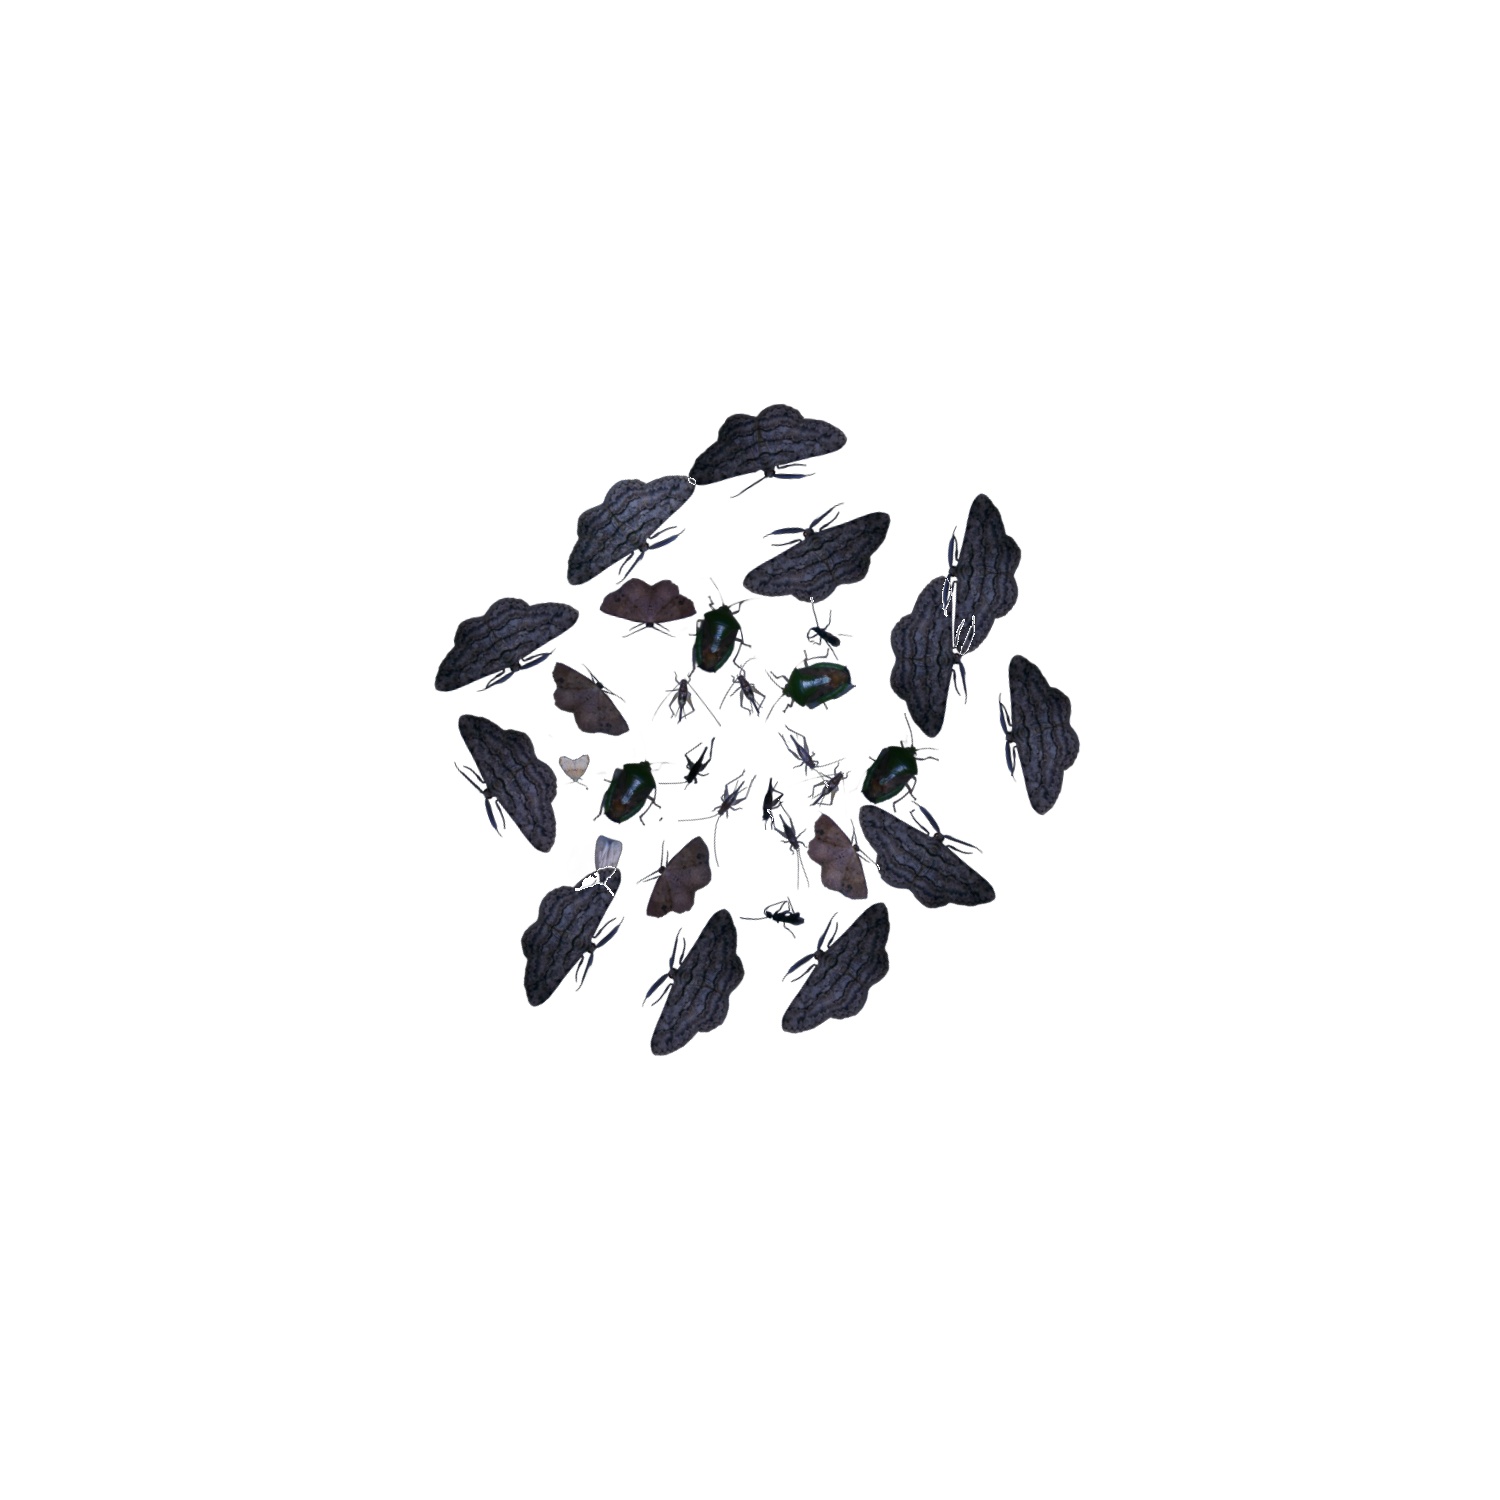
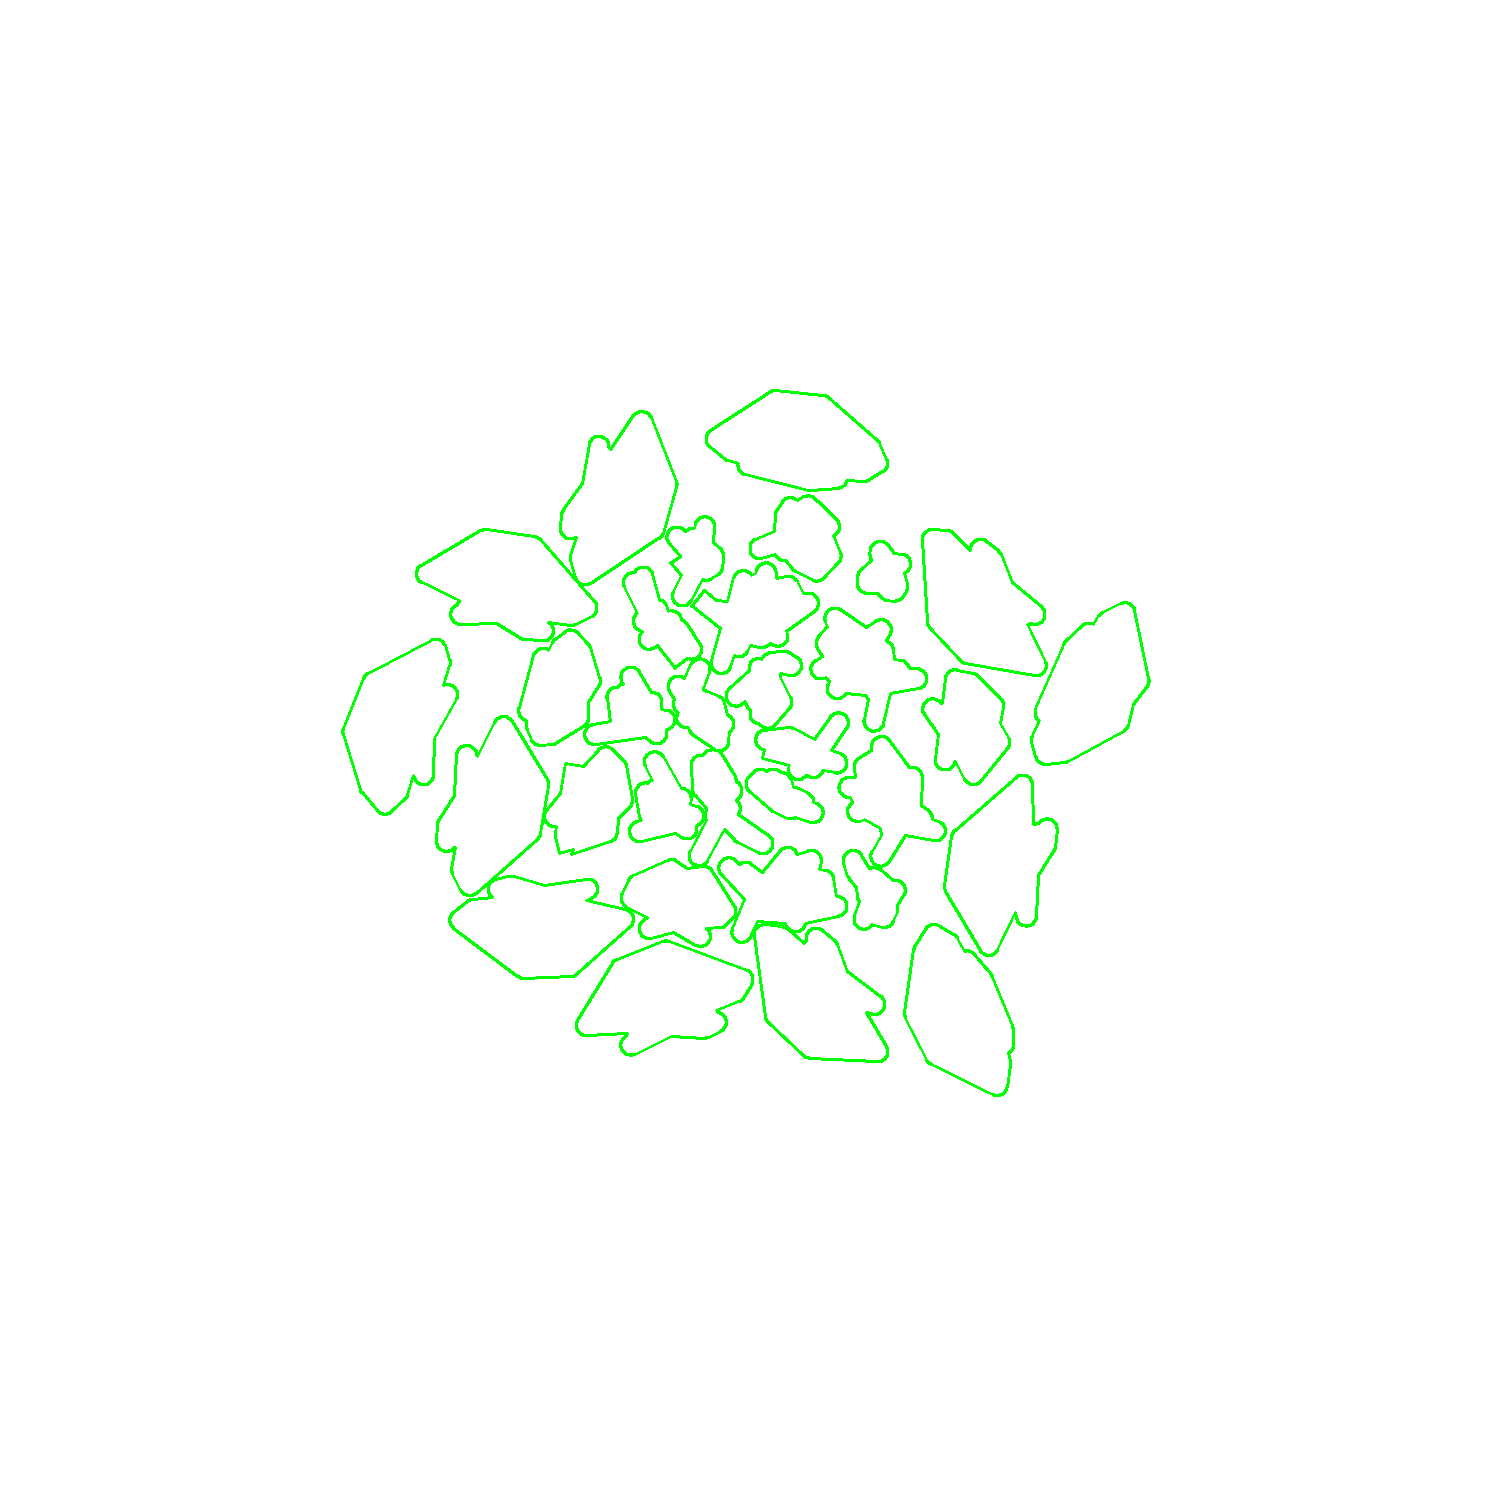
can add padding now

Changed region(s): [[0.2453, 0.2453, 0.736, 0.7053], [0.644, 0.7053, 0.6747, 0.736]]

diff --git a/AI/visualization_scripts/shape_packing.py b/AI/visualization_scripts/shape_packing.py
@@ -10,12 +10,14 @@ import matplotlib.pyplot as plt
 # ----------------------------
 # CONFIG
 # ----------------------------
-folder = r"D:\x-anylabeling-matting\onlybig\test\*.png"  # default folder
-scale_factor = 0.2       # set to 1.0 for no scaling
-animate = True           # set False to skip animation
-bg_color = None          # e.g., (255,255,255) for white, None = transparent
-random_rotate = True     # True to rotate each shape randomly
-max_rotation = 360       # max rotation angle in degrees
+folder = r"D:\x-anylabeling-matting\onlybig\test\*.png"
+scale_factor = 0.2        # scale factor for all shapes
+animate = True            # step-by-step animation
+bg_color = None           # None = transparent, or (R,G,B)
+random_rotate = True      # rotate shapes randomly
+max_rotation = 360        # max random rotation (degrees)
+debug_view = True        # if True, show outlines instead of images
+padding = 10               # extra padding around each shape (in pixels)
 
 
 # ----------------------------
@@ -44,7 +46,7 @@ def get_shape(path, scale_factor=1.0):
     # Polygon in image coords
     poly = Polygon(approx.reshape(-1, 2))
 
-    # Compute centroid (to use as anchor point)
+    # Compute centroid
     cx, cy = poly.centroid.coords[0]
 
     return {
@@ -59,31 +61,44 @@ def get_shape(path, scale_factor=1.0):
 # ----------------------------
 # 2. Packing algorithm
 # ----------------------------
-def pack_shapes(shapes, spacing=5, animate=False, random_rotate=False, max_rotation=360):
+def pack_shapes(shapes, spacing=5, animate=False,
+                random_rotate=False, max_rotation=360,
+                padding=0):
     placed = []
     center = (0, 0)
 
-    # Prepare matplotlib live plot if animating
     if animate:
         plt.ion()
         fig, ax = plt.subplots()
         ax.set_aspect("equal")
         ax.axis("off")
 
-    for i, shape in enumerate(shapes):
-        # Apply random rotation if enabled
-        angle_deg = 0
+    for shape in shapes:
+        # Random rotation
         rotated_img = shape["img"]
         rotated_poly = shape["poly"]
 
         if random_rotate:
             angle_deg = random.uniform(0, max_rotation)
-            # Rotate image around its center
             h, w = shape["h"], shape["w"]
+
+            # Rotate image
             M = cv2.getRotationMatrix2D((w/2, h/2), angle_deg, 1.0)
-            rotated_img = cv2.warpAffine(rotated_img, M, (w, h), flags=cv2.INTER_LINEAR, borderMode=cv2.BORDER_CONSTANT, borderValue=(0,0,0,0))
-            # Rotate polygon around anchor
+            rotated_img = cv2.warpAffine(
+                rotated_img, M, (w, h),
+                flags=cv2.INTER_LINEAR,
+                borderMode=cv2.BORDER_CONSTANT,
+                borderValue=(0, 0, 0, 0)
+            )
+
+            # Rotate polygon
             rotated_poly = affinity.rotate(rotated_poly, angle_deg, origin=shape["anchor"])
+
+        # Apply padding
+        if padding > 0:
+            padded_poly = rotated_poly.buffer(padding)
+        else:
+            padded_poly = rotated_poly
 
         # Spiral placement
         angle = 0
@@ -96,23 +111,27 @@ def pack_shapes(shapes, spacing=5, animate=False, random_rotate=False, max_rotat
 
             dx = x - shape["anchor"][0]
             dy = y - shape["anchor"][1]
-            moved_poly = affinity.translate(rotated_poly, xoff=dx, yoff=dy)
+            moved_poly = affinity.translate(padded_poly, xoff=dx, yoff=dy)
 
             # Collision check
-            if not any(moved_poly.intersects(
-                        affinity.translate(p["poly"],
-                                           xoff=px - p["anchor"][0],
-                                           yoff=py - p["anchor"][1]).buffer(spacing))
-                       for p, (px, py) in placed):
-                # Save placed shape with rotated image & polygon
+            if not any(
+                moved_poly.intersects(
+                    affinity.translate(
+                        p["poly"],
+                        xoff=px - p["anchor"][0],
+                        yoff=py - p["anchor"][1]
+                    )
+                )
+                for p, (px, py) in placed
+            ):
                 new_shape = shape.copy()
                 new_shape["img"] = rotated_img
-                new_shape["poly"] = rotated_poly
+                new_shape["poly"] = padded_poly  # store padded version
                 placed.append((new_shape, (x, y)))
                 placed_successfully = True
 
                 if animate:
-                    canvas = visualize(placed, bg_color=bg_color)
+                    canvas = visualize(placed, bg_color=bg_color, debug=debug_view)
                     ax.clear()
                     ax.imshow(cv2.cvtColor(canvas, cv2.COLOR_BGRA2RGBA))
                     ax.axis("off")
@@ -131,7 +150,7 @@ def pack_shapes(shapes, spacing=5, animate=False, random_rotate=False, max_rotat
 # ----------------------------
 # 3. Render composite
 # ----------------------------
-def visualize(placed, out_size=(1500, 1500), bg_color=None):
+def visualize(placed, out_size=(1500, 1500), bg_color=None, debug=False):
     if bg_color is None:
         canvas = np.zeros((out_size[1], out_size[0], 4), dtype=np.uint8)
     else:
@@ -142,19 +161,29 @@ def visualize(placed, out_size=(1500, 1500), bg_color=None):
     cx, cy = out_size[0] // 2, out_size[1] // 2
 
     for shape, (x, y) in placed:
-        img = shape["img"]
-        h, w = shape["h"], shape["w"]
+        if debug:
+            moved_poly = affinity.translate(
+                shape["poly"], xoff=x - shape["anchor"][0], yoff=y - shape["anchor"][1]
+            )
+            pts = np.array(moved_poly.exterior.coords, dtype=np.int32)
+            pts[:, 0] += cx
+            pts[:, 1] += cy
+            cv2.polylines(canvas, [pts], isClosed=True,
+                          color=(0, 255, 0, 255), thickness=2)
+        else:
+            img = shape["img"]
+            h, w = shape["h"], shape["w"]
 
-        px = cx + int(x - shape["anchor"][0])
-        py = cy + int(y - shape["anchor"][1])
+            px = cx + int(x - shape["anchor"][0])
+            py = cy + int(y - shape["anchor"][1])
 
-        if px < 0 or py < 0 or px + w > out_size[0] or py + h > out_size[1]:
-            continue
+            if px < 0 or py < 0 or px + w > out_size[0] or py + h > out_size[1]:
+                continue
 
-        roi = canvas[py:py + h, px:px + w]
-        alpha = img[:, :, 3:] / 255.0
-        roi[:, :, :3] = (1 - alpha) * roi[:, :, :3] + alpha * img[:, :, :3]
-        roi[:, :, 3:] = np.clip(roi[:, :, 3:] + img[:, :, 3:], 0, 255)
+            roi = canvas[py:py + h, px:px + w]
+            alpha = img[:, :, 3:] / 255.0
+            roi[:, :, :3] = (1 - alpha) * roi[:, :, :3] + alpha * img[:, :, :3]
+            roi[:, :, 3:] = np.clip(roi[:, :, 3:] + img[:, :, 3:], 0, 255)
 
     return canvas
 
@@ -167,9 +196,12 @@ if __name__ == "__main__":
     if not shapes:
         raise RuntimeError("No PNGs found!")
 
-    placed = pack_shapes(shapes, animate=animate, random_rotate=random_rotate, max_rotation=max_rotation)
+    placed = pack_shapes(shapes, animate=animate,
+                         random_rotate=random_rotate,
+                         max_rotation=max_rotation,
+                         padding=padding)
 
-    result = visualize(placed, bg_color=bg_color)
+    result = visualize(placed, bg_color=bg_color, debug=debug_view)
 
     cv2.imwrite("packed_result.png", result)
     print("✅ Saved result as packed_result.png")
